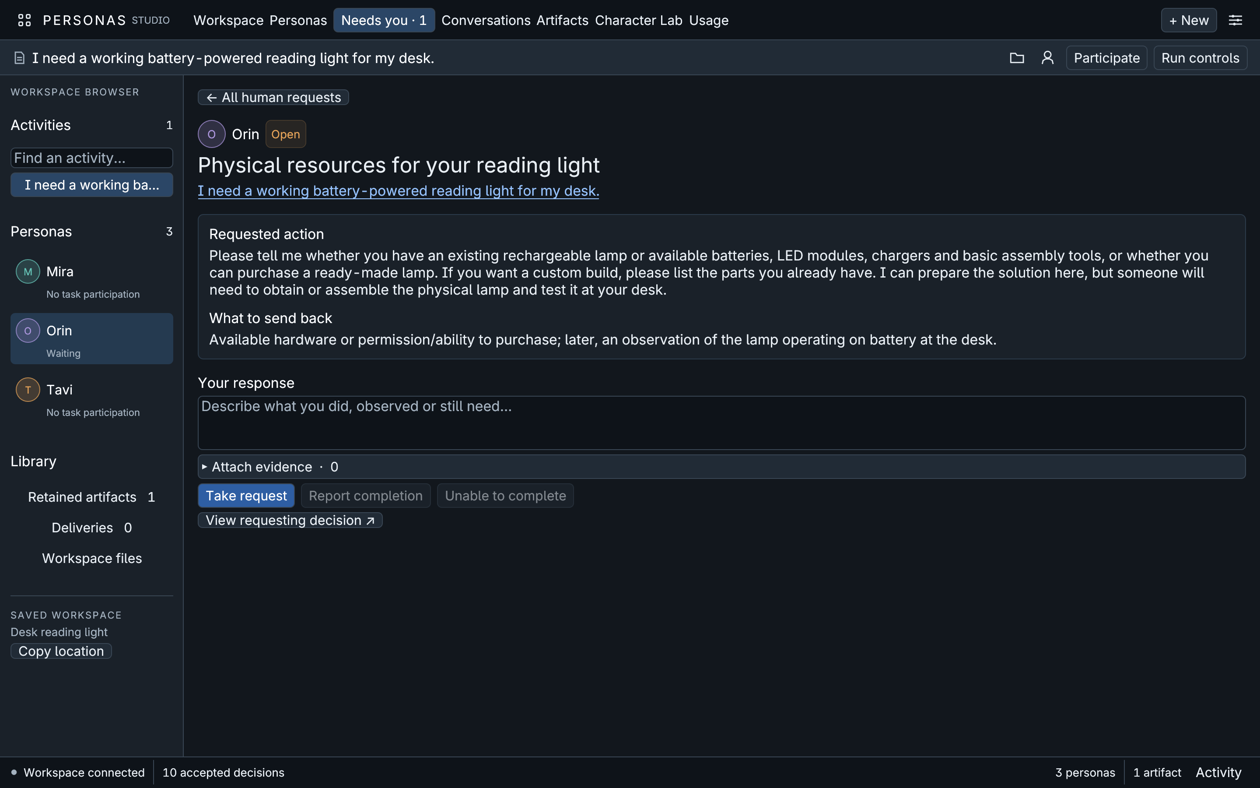
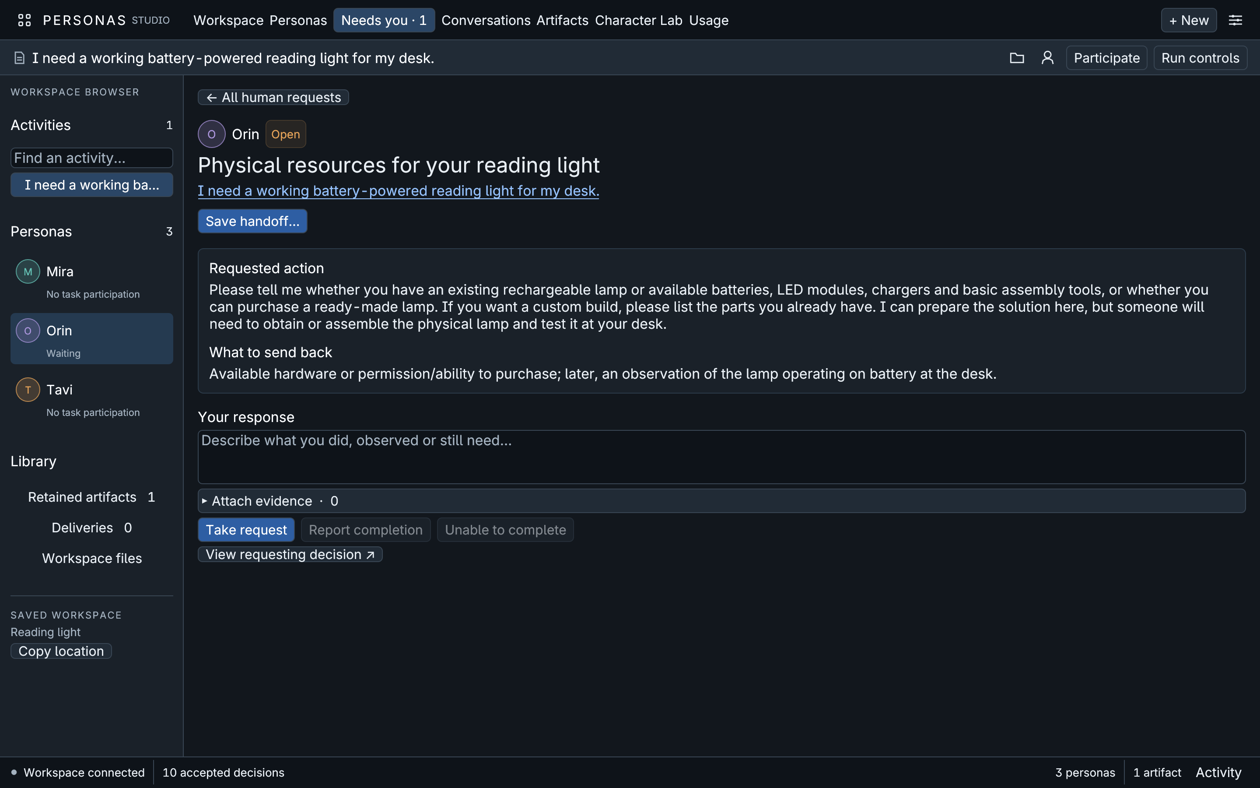
Document verified desk-to-supplier handoffs in Studio

Changed region(s): [[0.1548, 0.2437, 0.9905, 0.731], [0.0, 0.7919, 0.0929, 0.8223]]

diff --git a/docs/design-conformance.md b/docs/design-conformance.md
@@ -2,7 +2,7 @@
 
 The numerical Studio runs continuing personas through direct provider calls. Real participants produced editable designs, exchanged messages, reused other projects’ files and completed a reversible character experiment. **Beneficial self-directed numerical maturation over ordinary work remains unproven.** In the five-person cohort, all five authored and used initial models. Three retained developmental questions after feedback. None proposed a subsequent numerical revision across the eleven main-cohort activities.
 
-The design revision is `7d86efb`, published November 17, 2026. The Linux evaluation started at runtime revision `0345495` and continued through the live Studio observations on November 19. Each saved decision retains the interface and observations supplied by its own build. [Design](https://github.com/ai-personas/ai-personas-design/tree/7d86efb31a0323e03166a5c5212cdcd8b2e32f36) · [Studio evaluated](https://github.com/ai-personas/ai-personas-runtime/tree/885d29b4087285fda26b7465f62011e493ec55ce)
+The design revision is `7d86efb`, published November 17, 2026. The Linux evaluation started at runtime revision `0345495` and continued through the live Studio observations and physical handoff checks on November 19. Each saved decision retains the interface and observations supplied by its own build. [Design](https://github.com/ai-personas/ai-personas-design/tree/7d86efb31a0323e03166a5c5212cdcd8b2e32f36) · [Live Studio](https://github.com/ai-personas/ai-personas-runtime/tree/885d29b4087285fda26b7465f62011e493ec55ce) · [Handoff build](https://github.com/ai-personas/ai-personas-runtime/tree/d9c91bba7748596c51c9db39f1b5d0022544c882)
 
 ## Observing autonomous activity in Studio
 
@@ -17,6 +17,12 @@ In a separate Studio workspace with no provider calls, a human message was saved
 Studio build `20bc9ab` then observed a fresh request to Mira for a neighborhood book exchange name. Mira chose “The Reading Roundabout” and stopped after two accepted decisions. The observer recorded 22 cumulative byte counts while the calls were in progress. Each count was bounded by its own final provider receipt. The two completed streams contained 85,267 and 71,802 bytes respectively. The timeline displayed the accepted invitation and reply, with the human composer available throughout. The activity received only its initial invitation.
 
 ## Autonomous work and human requests
+
+An operator exported Orin's original reading-light request from a saved copy. The printable sheet retained the requested action and the observation Orin wanted back. This request had zero attachments. Exporting it left its state open.
+
+In a separate disconnected check, the normal decision-adoption path attached Mira's previously issued partial eight-file inverter delivery to a technical request. The resulting sheet showed the author's supported use, all three remaining items and all 22 file qualifications. The file names and contents in the accompanying ZIP matched the original circuit delivery. A request that selected those files individually listed just the files. Repeated file and package selections produced one copy of each member. An earlier request revision showed the latest recorded status at export. A later file edit preserved the attached edition. Two simultaneous exports to one destination published one complete folder. An altered delivery scope and a damaged retained file each failed before publication.
+
[1 lines of base64/hex data omitted]
 
 Two fresh workspaces each began with three general-purpose identities, an empty working directory and one request addressed to one persona. One runner followed each activity until its participant chose to wait. Each received only the opening human invitation. There were zero subsequent operator messages, amendments, resumptions or reviews. Neither persona chose to involve a peer. The earlier cross-activity print and count studies explicitly commissioned delegation and are evidence about the delivery mechanism.
 

diff --git a/docs/editable-persona-models.md b/docs/editable-persona-models.md
@@ -1,12 +1,14 @@
 # Numerical workspaces
 
-`neural message-receipt EVENT_NUMBER` traces an operator's saved message to the first accepted ordinary decision whose verified incoming events contained its exact text. The result names the recipient, sender, time sent and the consuming decision when one is recorded.
+`neural message-receipt EVENT_NUMBER` traces a human message, request claim, release or report to the requester's first verified ordinary decision in this activity that received the exact event. Returned attachments show their first verified text range or image and their first whole-file receipt when available.
 
 `neural activity-sources WORK` shows exact file revisions from another activity that appeared in accepted inputs, tool executions and issued packages. Use `--persona`, `--source-work`, `--offset` and `--page-size` to narrow the report. A persona can choose `work.sources` to look up its own history in the current activity. The records distinguish displayed search metadata, supplied byte ranges, execution results and package membership.
 
 `neural run --from-activity WORK` follows a root and the activities its participants actually request, including nested requests. Add `--watch` to keep listening for each participant's chosen wake events. `neural activity-tree WORK` reads the scope and participation states. The exact `--work` and `--persona` filters remain available for intentionally narrow runs.
 
-Personas may use `human.request` to ask for a real-world action, include exact asset revisions and describe what they need back. A requester can use `human.withdraw` on an open request. The Studio inbox and `neural status` show these records even when the requesting persona stops or works elsewhere. `neural export-package REFERENCE DESTINATION.zip` saves the attached files for one exact request or delivery.
+Personas may use `human.request` to ask for a real-world action and describe what they need back. The optional `artifacts` list takes exact file revisions. The optional `deliveries` list takes exact issued packages together with their files, authors, supported uses, declared scopes and remaining work. A requester can use `human.withdraw` on an open request. The Studio inbox and `neural status` show these records even when the requesting persona stops or works elsewhere.
+
+`neural export-handoff HUMAN_REQUEST_REVISION NEW_FOLDER` saves a printable `Request.html` and, when there are files, a separate `Files.zip`. An older request sheet identifies the latest recorded revision and status at export. `neural export-package REFERENCE DESTINATION.zip` saves just the attached files for an exact request or delivery.
 
 Use `neural human-respond REFERENCE take` to claim a request. Use its new revision for `update`, `complete`, `unable` or `release`. Progress and outcome reports take `--note TEXT` and repeatable `--attach FILE`. The requesting persona receives the human's attributed report and exact byte references as a `user_message`. A claim or release by itself produces `human_request_progress`. The request's revision and optional operator `--request-id` protect competing submissions and retries.
 

diff --git a/docs/desktop.md b/docs/desktop.md
@@ -23,8 +23,8 @@ In **Your message**, choose a recipient, write and select **Send**. You can send
 Open **Needs you** to see requests across the workspace. Each request identifies who asked, what they need, what to send back, and any attached files. **Messages** also shows free-form messages personas addressed to a human.
 
 1. Open the request and choose **Take request** to let others know you are handling it.
-2. If files are attached, choose **Save files as ZIP…**. The ZIP preserves the exact revisions, filenames and folders the persona selected. For a manufacturing request, you can take that package to the supplier yourself. An ordinary delivery also has **Save package…** and shows the author's supported use and remaining work.
-3. Use **Send progress** to report a milestone such as placing an order. Use **Report completion** or **Unable to complete** to tell the persona what actually happened. **Attach evidence** includes local files, such as a supplier receipt or measurements. The human update and its files stay with the original request.
+2. Choose **Save handoff…** to take the request outside Studio. Open or print `Request.html` for the action, what to send back, and the qualifications on each file. An explicitly included delivery carries its author's declared scope, supported use and remaining work. When there are attachments, `Files.zip` contains the exact revisions with their original names and folders. For a circuit request, you can read the sheet and give the ZIP to the supplier. **Save files as ZIP…** also saves the files alone.
+3. Use **Send progress** to report a milestone such as placing an order. Use **Report completion** or **Unable to complete** to tell the persona what happened. **Attach evidence** includes local files, such as a supplier receipt or measurements. In **Human updates**, open **Delivery status** to see when the requester received the update in this activity. Returned files have separate receipts when an accepted decision receives their contents.
 
 ![Studio showing Orin’s request for available lamp hardware, what to send back and the human response controls.](assets/studio-human-request.png)
 

diff --git a/README.md b/README.md
@@ -9,7 +9,7 @@ cargo build --locked --release --features desktop --bins
 ./personas --gui
 ```
 
-Create a workspace, enter the starting profiles and choose a model connection. Use **+ New** to describe a need and choose the first invitees. **Run activity** follows their work, including activities they choose to open. In **Live activity**, watch each persona's calls, messages, tools and saved files. You can write to a participant while the timeline updates. **Work & deliveries** holds their packages. **Needs you** shows requests for human action, the files to take and how to send observations or files back to the author. [Desktop guide](docs/desktop.md)
+Create a workspace, enter the starting profiles and choose a model connection. Use **+ New** to describe a need and choose the first invitees. **Run activity** follows their work, including activities they choose to open. In **Live activity**, watch each persona's calls, messages, tools and saved files. You can write to a participant while the timeline updates. **Work & deliveries** holds their packages. In **Needs you**, save the printable request and its files, then return your observations to the persona who asked. [Desktop guide](docs/desktop.md)
 
 **Character Lab** shows model parameters, appraisals and development decisions. Open an existing numerical workspace with `./personas --gui --progress DIRECTORY`.
 
